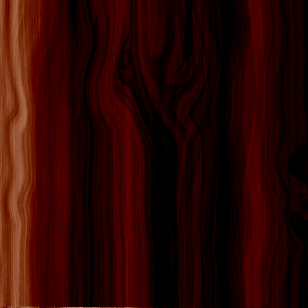
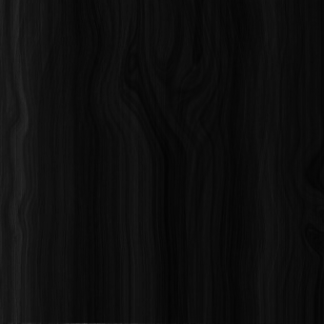
Updated UI area, Updated board textures, added board rotation, added grid markers, randomized textures

diff --git a/chess/functions.js b/chess/functions.js
@@ -1150,7 +1150,6 @@ function keyPressed (event)
 		stage.addChild(pieceType[currentPiece-1]);
 		pieces.push(pieceType[currentPiece-1]);
 	}
-	
 	//if 'r' is pressed
 	//rotate the game board
 	var xShift = 480, yShift = 576;
@@ -1160,8 +1159,13 @@ function keyPressed (event)
 			stage.position.x += xShift;
 			stage.position.y += yShift;
 			boardRotate = true;
+			//rotate game pieces
 			for (var i = 0; i < numPieces; i++){
 				pieces[i].rotation += Math.PI;
+			}
+			//rotate grid markers
+			for (var i = 0; i < 16; i++){
+				gridMarks[i].rotation += Math.PI;
 			}
 			return;
 		}
@@ -1173,8 +1177,46 @@ function keyPressed (event)
 			for (var i = 0; i < numPieces; i++){
 				pieces[i].rotation += Math.PI;
 			}
+			for (var i = 0; i < 16; i++){
+				gridMarks[i].rotation += Math.PI;
+			}
 		}
 	}
+}
+
+function boardRotation(){
+	//rotate the game board
+	var xShift = 480, yShift = 576;
+	//if (event.keyCode == 82){
+		if (boardRotate == false){
+			stage.rotation += Math.PI;
+			stage.position.x += xShift;
+			stage.position.y += yShift;
+			boardRotate = true;
+			//rotate game pieces
+			for (var i = 0; i < numPieces; i++){
+				pieces[i].rotation += Math.PI;
+			}
+			//rotate grid markers
+			for (var i = 0; i < 16; i++){
+				gridMarks[i].rotation += Math.PI;
+			}
+			return;
+		}
+		if (boardRotate == true){
+			stage.rotation += Math.PI;
+			stage.position.x -= xShift;
+			stage.position.y -= yShift;
+			boardRotate = false;
+			for (var i = 0; i < numPieces; i++){
+				pieces[i].rotation += Math.PI;
+			}
+			for (var i = 0; i < 16; i++){
+				gridMarks[i].rotation += Math.PI;
+			}
+		}
+	//}
+	
 }
 		
 function updatePosition (buttonSelected, prevButton)
@@ -1196,7 +1238,7 @@ function textUpdate(buttonSelected){
 		stage.removeChild(richText);
 	}
 	var style = {
-		font : 'bold 18px Arial',
+		font : 'bold 16px Arial',
 		fill : '#F7EDCA',
 		stroke : '#4a1850',
 		strokeThickness : 2,
@@ -1234,11 +1276,142 @@ function textUpdate(buttonSelected){
 	rText = new PIXI.Text(color  + ' '  + pieces[currentPiece-1].type
 								+ ' '   + Col1 + (10-pieces[currentPiece-1].rowNum)
 								+' to ' + Col2 +	(10-buttonSelected.rowNum),style);
-	//rText.x = 500;
+	rText.x = 8;
 	rText.y = yText;
-	yText+= 16;
+	yText+= 18;
 	richText.push(rText);
 	UIstage.addChild(rText);	
+}
+
+function addCoordinateMarkers(){
+
+
+	//Gridspace indicators	
+	var markerStyle = {
+		font : 'bold 18px Calibri',
+		fill : '#F7EDCA',
+		stroke : '#000000',
+		strokeThickness : 5,
+		dropShadow : true,
+		dropShadowColor : '#000000',
+		dropShadowAngle : Math.PI / 6,
+		dropShadowDistance : 6,
+		wordWrap : true,
+		wordWrapWidth : 440
+	};
+	// Lettered Rows
+	gridMark = new PIXI.Text('A',markerStyle);
+	gridMark.x = buttons[22].position.x;
+	gridMark.y = buttons[22].position.y;
+	gridMark.anchor.set(0.5);
+	gridMarks.push(gridMark);
+	stage.addChild(gridMark);
+	
+	var gridMark = new PIXI.Text('B',markerStyle);
+	gridMark.x = buttons[34].position.x;
+	gridMark.y = buttons[34].position.y;
+	gridMark.anchor.set(0.5);
+	gridMarks.push(gridMark);
+	stage.addChild(gridMark);
+		
+	var gridMark = new PIXI.Text('C',markerStyle);
+	gridMark.x = buttons[46].position.x;
+	gridMark.y = buttons[46].position.y;
+	gridMark.anchor.set(0.5);
+	gridMarks.push(gridMark);
+	stage.addChild(gridMark);
+	
+	var gridMark = new PIXI.Text('D',markerStyle);
+	gridMark.x = buttons[58].position.x;
+	gridMark.y = buttons[58].position.y;
+	gridMark.anchor.set(0.5);
+	gridMarks.push(gridMark);
+	stage.addChild(gridMark);
+	
+	var gridMark = new PIXI.Text('E',markerStyle);
+	gridMark.x = buttons[70].position.x;
+	gridMark.y = buttons[70].position.y;
+	gridMark.anchor.set(0.5);
+	gridMarks.push(gridMark);
+	stage.addChild(gridMark);
+	
+	var gridMark = new PIXI.Text('F',markerStyle);
+	gridMark.x = buttons[82].position.x;
+	gridMark.y = buttons[82].position.y;
+	gridMark.anchor.set(0.5);
+	gridMarks.push(gridMark);
+	stage.addChild(gridMark);
+	
+	var gridMark = new PIXI.Text('G',markerStyle);
+	gridMark.x = buttons[94].position.x;
+	gridMark.y = buttons[94].position.y;
+	gridMark.anchor.set(0.5);
+	gridMarks.push(gridMark);
+	stage.addChild(gridMark);
+	
+	var gridMark = new PIXI.Text('H',markerStyle);
+	gridMark.x = buttons[106].position.x;
+	gridMark.y = buttons[106].position.y;
+	gridMark.anchor.set(0.5);
+	gridMarks.push(gridMark);
+	stage.addChild(gridMark);
+	
+	//Numbered Columns
+	var gridMark = new PIXI.Text('1',markerStyle);
+	gridMark.x = buttons[9].position.x;
+	gridMark.y = buttons[9].position.y;
+	gridMark.anchor.set(0.5);
+	gridMarks.push(gridMark);
+	stage.addChild(gridMark);
+	
+	var gridMark = new PIXI.Text('2',markerStyle);
+	gridMark.x = buttons[8].position.x;
+	gridMark.y = buttons[8].position.y;
+	gridMark.anchor.set(0.5);
+	gridMarks.push(gridMark);
+	stage.addChild(gridMark);
+	
+	var gridMark = new PIXI.Text('3',markerStyle);
+	gridMark.x = buttons[7].position.x;
+	gridMark.y = buttons[7].position.y;
+	gridMark.anchor.set(0.5);
+	gridMarks.push(gridMark);
+	stage.addChild(gridMark);
+	
+	var gridMark = new PIXI.Text('4',markerStyle);
+	gridMark.x = buttons[6].position.x;
+	gridMark.y = buttons[6].position.y;
+	gridMark.anchor.set(0.5);
+	gridMarks.push(gridMark);
+	stage.addChild(gridMark);
+	
+	var gridMark = new PIXI.Text('5',markerStyle);
+	gridMark.x = buttons[5].position.x;
+	gridMark.y = buttons[5].position.y;
+	gridMark.anchor.set(0.5);
+	gridMarks.push(gridMark);
+	stage.addChild(gridMark);
+	
+	var gridMark = new PIXI.Text('6',markerStyle);
+	gridMark.x = buttons[4].position.x;
+	gridMark.y = buttons[4].position.y;
+	gridMark.anchor.set(0.5);
+	gridMarks.push(gridMark);
+	stage.addChild(gridMark);
+	
+	var gridMark = new PIXI.Text('7',markerStyle);
+	gridMark.x = buttons[3].position.x;
+	gridMark.y = buttons[3].position.y;
+	gridMark.anchor.set(0.5);
+	gridMarks.push(gridMark);
+	stage.addChild(gridMark);
+	
+	var gridMark = new PIXI.Text('8',markerStyle);
+	gridMark.x = buttons[2].position.x;
+	gridMark.y = buttons[2].position.y;
+	gridMark.anchor.set(0.5);
+	gridMarks.push(gridMark);
+	stage.addChild(gridMark);
 }
 
 function temporaryClear (oldPosition)

diff --git a/chess/chess.html b/chess/chess.html
@@ -17,10 +17,12 @@
 	<body>
 		<script>
 		var stage = new PIXI.Container();
-		var renderer = PIXI.autoDetectRenderer(500, 600);
+		var renderer = PIXI.autoDetectRenderer(482, 578);
 		
+		var UIscalex = 250
+		var UIscaley = 578;
 		var UIstage = new PIXI.Container();
-		var UIrenderer = PIXI.autoDetectRenderer(250,600);
+		var UIrenderer = PIXI.autoDetectRenderer(UIscalex,UIscaley);
 		
 		document.body.appendChild(renderer.view);
 		document.body.appendChild(UIrenderer.view);
@@ -45,7 +47,7 @@
 		var whiteKingChecked = false;
 		var blackKingChecked = false;
 		var kingCheckedBy = [];
-		var yText = 0;
+		var yText = 8;
 		var wave = 0;
 		var prevButton;
 		var prevKingButton = 0;
@@ -67,6 +69,8 @@
 		
 		// richtext array
 		var richText = [];
+		//grid markers
+		var gridMarks = [];
 
 		// button layer over the chessboard
 		var buttons = [];
@@ -88,37 +92,45 @@
 		var lightWood3 = PIXI.Sprite.fromImage("assets/lightwood3.png");
 		var lightWood4 = PIXI.Sprite.fromImage("assets/lightwood4.png");
 		
-		var randTile;
+		var randTile = 0;
 		
 
 		// create a 10 x 12 grid of interactive squares
 		for (var i = 0; i < 10; i++){
 			for (var j = 0; j < 12; j++){		
 				//var button = new PIXI.Sprite(textureButton);
-				
 
 				if ((i >= 1 && i <= 8) && (j >= 2 && j <= 9)){
+					// if white team
 					if ((i%2 == 0 && j%2 != 0) || i%2 != 0 && j%2 ==0){
-						var button = PIXI.Sprite.fromImage("assets/lightWood1.png");
-						//var button = PIXI.Sprite.fromImage("assets/white_grid.png");
-						
+						//randomize tile textures
 						randTile = (Math.random() * 4);
-						if (randTile == 0){ var button = lightWood1;}
-						if (randTile == 1){ var button = lightWood2;}
-						if (randTile == 2){ var button = lightWood3;}
-						if (randTile == 3){ var button = lightWood4;}
+						if (randTile >= 0 && randTile < 1){ var button = PIXI.Sprite.fromImage("assets/lightWood1.png");}
+						if (randTile >= 1 && randTile < 2){ var button = PIXI.Sprite.fromImage("assets/lightWood2.png");}
+						if (randTile >= 2 && randTile < 3){ var button = PIXI.Sprite.fromImage("assets/lightWood3.png");}
+						if (randTile >= 3 && randTile < 4){ var button = PIXI.Sprite.fromImage("assets/lightWood4.png");}
 					}
-					
+					//else black team
 					else{
 						//var button = PIXI.Sprite.fromImage("assets/black_grid.png");
-						var button = PIXI.Sprite.fromImage("assets/darkWood3.png");
+						randTile = (Math.random() * 4);
+						if (randTile >= 0 && randTile < 1){ var button = PIXI.Sprite.fromImage("assets/darkWood1.png");}
+						if (randTile >= 1 && randTile < 2){ var button = PIXI.Sprite.fromImage("assets/darkWood2.png");}
+						if (randTile >= 2 && randTile < 3){ var button = PIXI.Sprite.fromImage("assets/darkWood3.png");}
+						if (randTile >= 3 && randTile < 4){ var button = PIXI.Sprite.fromImage("assets/darkWood4.png");}
 					}
 					// initialize board state
 					button.status = 0;
 				}
 				else{
 					//var button = PIXI.Sprite.fromImage("assets/grass_grid.png");
-					var button = PIXI.Sprite.fromImage("assets/grassBorder.png");
+					//var button = PIXI.Sprite.fromImage("assets/grassBorder.png");
+					randTile = (Math.random() * 4);
+					if (randTile >= 0 && randTile < 1){ var button = PIXI.Sprite.fromImage("assets/woodBorder1.png");}
+					if (randTile >= 1 && randTile < 2){ var button = PIXI.Sprite.fromImage("assets/woodBorder2.png");}
+					if (randTile >= 2 && randTile < 3){ var button = PIXI.Sprite.fromImage("assets/woodBorder3.png");}
+					if (randTile >= 3 && randTile < 4){ var button = PIXI.Sprite.fromImage("assets/woodBorder4.png");}
+					button.rotation = Math.PI;
 					button.status = -1;
 					
 				}
@@ -165,7 +177,52 @@
 				buttons.push(button);
 			}
 		}
-
+		
+		//UI buttons in UI area
+		var UIbuttons = [];
+		var UIbutton  = PIXI.Sprite.fromImage("assets/rook-test.png");
+		UIbutton.position.x = 8;
+		UIbutton.position.y = UIscaley - 42;
+		UIbutton.interactive = true;
+		UIbutton.mouseover = function(){
+			this.tint=0x00ff00;
+		}
+		//mouse pointer leaves a button
+		UIbutton.mouseout = function(){
+			this.tint=defaultColor;
+		}
+		//detect mouseclick
+		UIbutton.on('mousedown', boardRotation);
+		//add touchscreen support
+		UIbutton.on('touchstart', boardRotation);
+		UIstage.addChild(UIbutton);
+		UIbuttons.push(UIbutton);
+		
+		//Create a border around the game area
+		var graphics = new PIXI.Graphics();
+		// set a fill and a line style again and draw a rectangle
+		graphics.lineStyle(4, 0xF0F0FF, 0.80); //(linewidth, color, alpha)
+		//graphics.beginFill(0xFF700B, 1);
+		graphics.drawRect(buttons[1].position.x+gridsize/2, buttons[1].position.y+gridsize/2, gridsize*8, gridsize*8); //drawRect(xPos,yPos,xScale,Yscale)
+		stage.addChild(graphics);
+		
+		var graphics2 = new PIXI.Graphics();
+		// set a fill and a line style again and draw a rectangle
+		graphics2.lineStyle(4, 0xF0F0FF, 0.80); //(linewidth, color, alpha)
+		//graphics.beginFill(0xFF700B, 1);
+		graphics2.drawRect(0, 0, gridsize*10, gridsize*12); //drawRect(xPos,yPos,xScale,Yscale)
+		stage.addChild(graphics2);
+		
+		//Create a border around the UI area
+		var graphics3 = new PIXI.Graphics();
+		// set a fill and a line style again and draw a rectangle
+		graphics3.lineStyle(8, 0xF0F0FF, 0.80); //(linewidth, color, alpha)
+		//graphics.beginFill(0xFF700B, 1);
+		graphics3.drawRect(0, 0, UIscalex, UIscaley); //drawRect(xPos,yPos,xScale,Yscale)
+		UIstage.addChild(graphics3);
+		
+		addCoordinateMarkers();
+		
 		//Create chess pieces
 		// load pawn image
 		var wPawnTexture = PIXI.Texture.fromImage("assets/wpawn1.png");
@@ -344,7 +401,6 @@
 			requestAnimationFrame(animate);
 			UIrenderer.render(UIstage);
 			renderer.render(stage);
-			renderer.render(UIcontainer);
 			for (var i=0; i<10; i++){
 				if (typeof richText[i] != "undefined"){
 					//richText[i].rotation -= Math.random();
